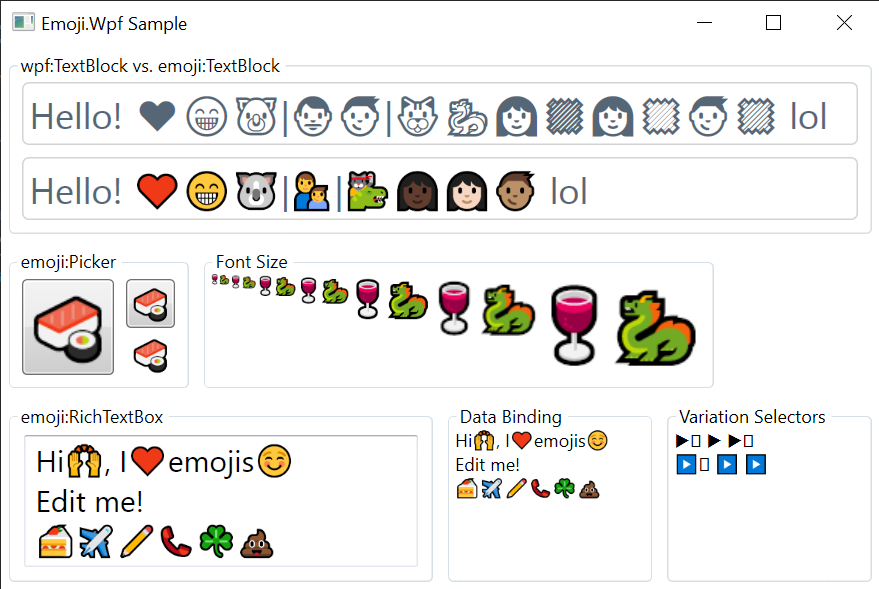
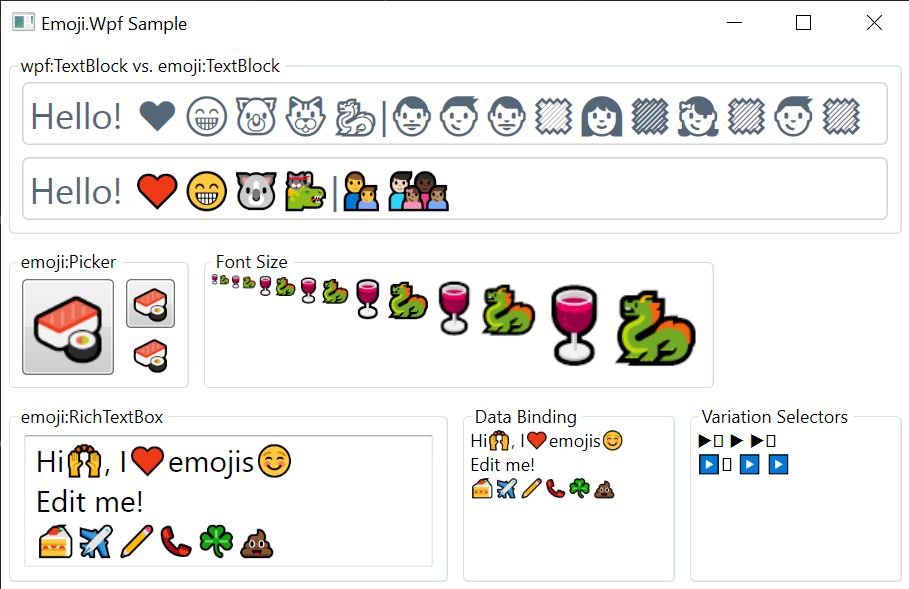
Update samples and documentation.

diff --git a/Sample/Sample.xaml b/Sample/Sample.xaml
@@ -4,14 +4,12 @@
         xmlns:d="http://schemas.microsoft.com/expression/blend/2008"
         xmlns:mc="http://schemas.openxmlformats.org/markup-compatibility/2006"
         xmlns:clr="clr-namespace:System;assembly=mscorlib"
-        xmlns:local="clr-namespace:Sample"
         xmlns:emoji="clr-namespace:Emoji.Wpf;assembly=Emoji.Wpf"
         mc:Ignorable="d"
-        Title="Emoji.Wpf Sample" Height="400" Width="600">
+        Title="Emoji.Wpf Sample" Width="620" Height="400">
 
     <Window.Resources>
-        <!-- FIXME: I used to have "👩🏽👩🏽👦🏽👦🏽" here but it has kerning issues. -->
-        <clr:String x:Key="SampleText">Hello! ♥😁🐨|👨👦|🐱🐉👩🏿👩🏻👦🏽 lol</clr:String>
+        <clr:String x:Key="SampleText">Hello! ♥😁🐨🐱🐉|👨👦👨🏻👩🏿👧🏽👦🏽</clr:String>
         <clr:String x:Key="PickerEmoji">🍣</clr:String>
         <clr:String x:Key="FontSizeEmoji">🍷🐉</clr:String>
         <clr:String x:Key="QualifiedEmoji">▶ ▶ ▶</clr:String>

diff --git a/Tiny/Tiny.xaml b/Tiny/Tiny.xaml
@@ -12,9 +12,10 @@
         Title="Emoji.Wpf Tiny" Width="600" Height="200">
 
     <Window.Resources>
-        <clr:String x:Key="SampleText">Hi👨👩👧👦Lol</clr:String>
+        <clr:String x:Key="SampleText">Hi👨🏻👩🏿👧🏽👦🏽lol</clr:String>
     </Window.Resources>
 
     <emoji:TextBlock FontSize="120" Text="{StaticResource SampleText}"
-                     FontFamily="Segoe UI Emoji, Segoe UI, Arial" TextWrapping="Wrap"/>
+                     FontFamily="Segoe UI Emoji, Segoe UI, Arial" TextWrapping="Wrap"
+                     VerticalAlignment="Center" HorizontalAlignment="Center"/>
 </Window>

diff --git a/README.md b/README.md
@@ -8,6 +8,7 @@
 
  - **Very experimental** for now.
  - **Colour emojis**! 😨 💩 🍰 ✈ ✏ 📞 ☘
+ - **Multiracial family emojis**! 👩🏿👩🏻👦🏽 👨🏻👩🏿👧🏽👦🏽 👩🏻👶🏽
  - **Full vector emojis**!
  - **Lightweight**; does not embed a font, or emoji images.
  - Works with **old .NET versions** such as 3.0.
